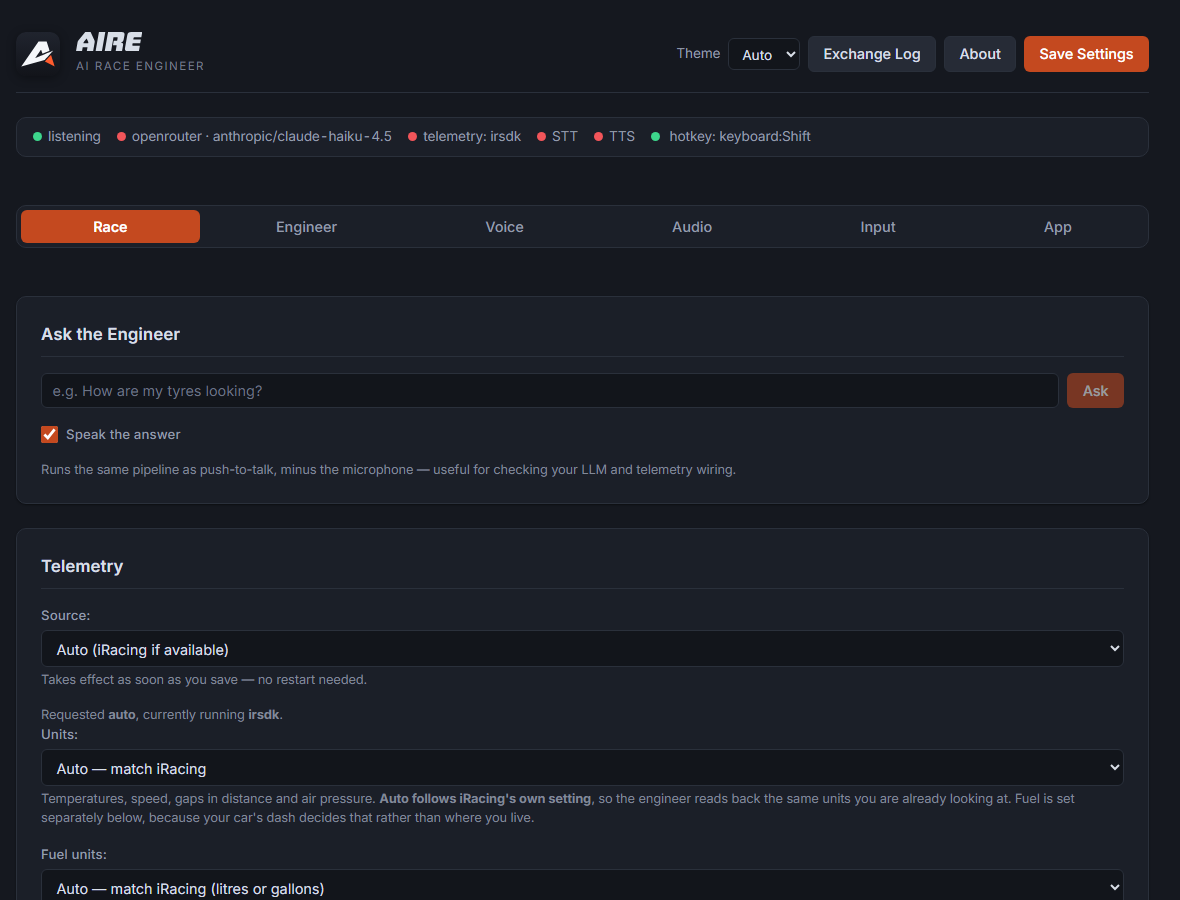
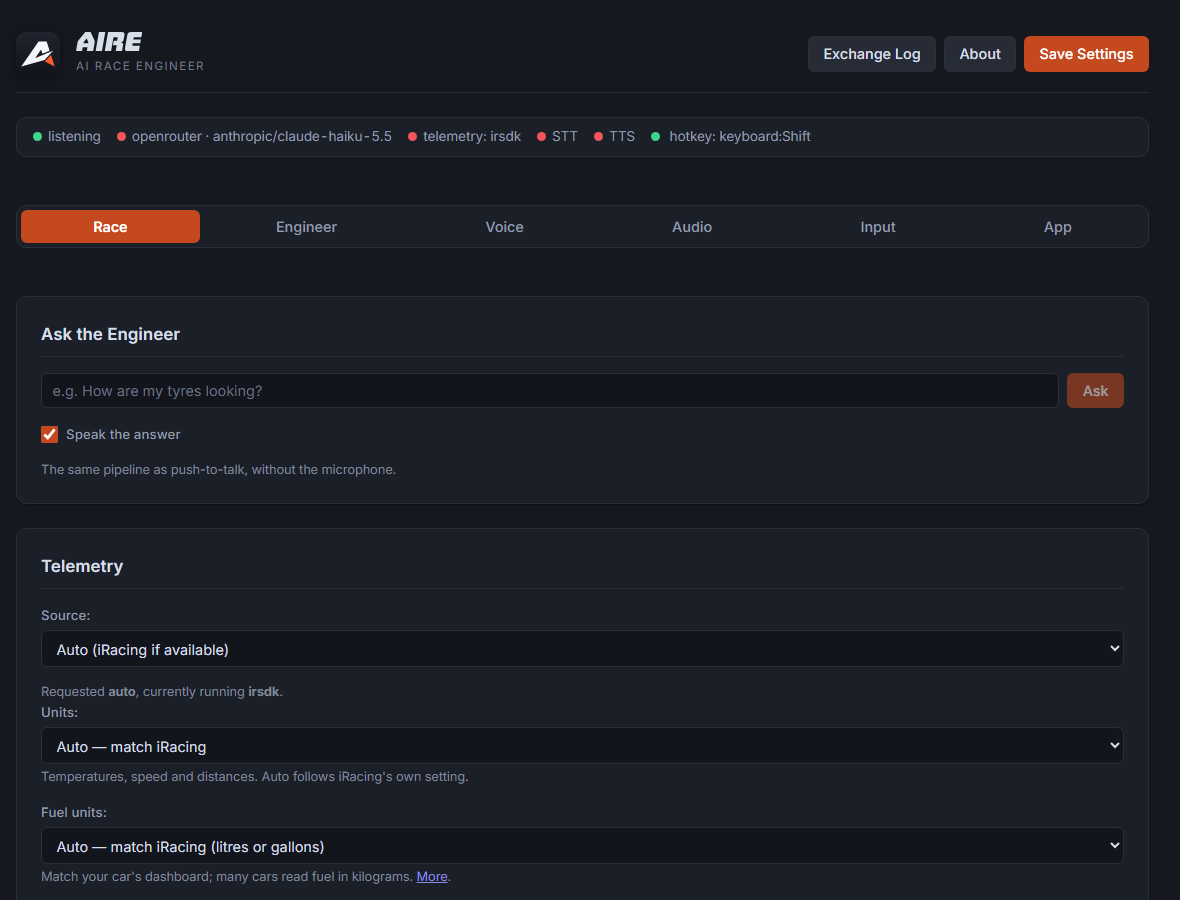
Describe the regrouped panel, and recapture its screenshots
The README's tab table follows the new grouping and says what sits under
Advanced. Screenshots recaptured with tools/capture-screenshots.ps1
against a scratch config, so nothing personal is in them.

diff --git a/README.md b/README.md
@@ -404,12 +404,17 @@ Everything is in the settings panel, grouped by tab. The same values live in
 
 | Tab | What is there |
 | --- | --- |
-| **Race** | Ask by text, telemetry source, units, fuel units, opt-in pit commands, live readout |
-| **Engineer** | LLM provider, key, model, temperature (ignored by models that do not take one, Claude Haiku 5.5 among them), tool calling, timeout, what to call you, system prompt |
-| **Voice** | ElevenLabs key, STT/TTS models, voice picker, delivery settings, speech cache, radio effect |
-| **Audio** | Input/output devices, engineer volume and boost, radio blips, Audio ducking |
+| **Race** | Ask by text, telemetry source and units, live readout, opt-in pit commands |
+| **Engineer** | LLM provider, key, model, memory, what to call you, system prompt |
+| **Voice** | ElevenLabs key, STT/TTS models, voice picker, delivery presets, hard-to-say names |
+| **Audio** | Input/output devices, radio blips, engineer volume and boost, radio effect, audio ducking |
 | **Input** | Push-to-talk mode, recording cut-off, keyboard or wheel binding |
-| **App** | Hide-to-tray behavior, defaults, process priority |
+| **App** | Theme, hide-to-tray, process priority, speech cache, exchange log size, defaults |
+
+Settings most drivers never need — the endpoint, temperature, token budget,
+voice sliders and radio filter — sit under **Advanced** in their section.
+Each hint says what a control does in a line; **More** opens the part of this
+README that says why.
 
 Config lives at `%APPDATA%\AIRE\config.json` on Windows, or
 `~/.config/AIRE/config.json` elsewhere. Point elsewhere with

diff --git a/CHANGELOG.md b/CHANGELOG.md
@@ -8,6 +8,14 @@ Entries are grouped under **Added**, **Changed**, **Fixed**, or **Removed**.
 
 ### Changed
 
+- The settings panel is quieter. Each hint is a line saying what the control
+  does, with a **More** link to the README for why; settings most drivers
+  never touch (endpoint, temperature, token budget, voice sliders, radio
+  filters, telemetry poll and traces) sit under **Advanced**. Radio effect
+  moved to Audio, the speech cache and exchange-log size to App, theme from
+  the header to App, and pit commands got their own section. Cost notes and
+  the pit-command warnings are unchanged. Two links that opened the top of
+  the README now go where they say.
 - The engineer talks like one on the answers it gives straight from its own
   calculations: fuel, position, gaps, pit window, status and the car's
   resources. Gaps are said to the tenth ("a second and a half", not "one
